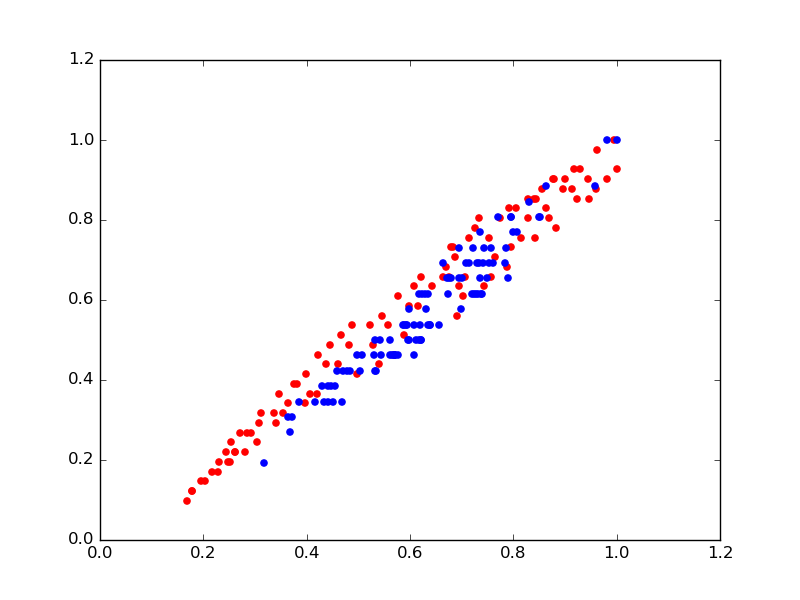
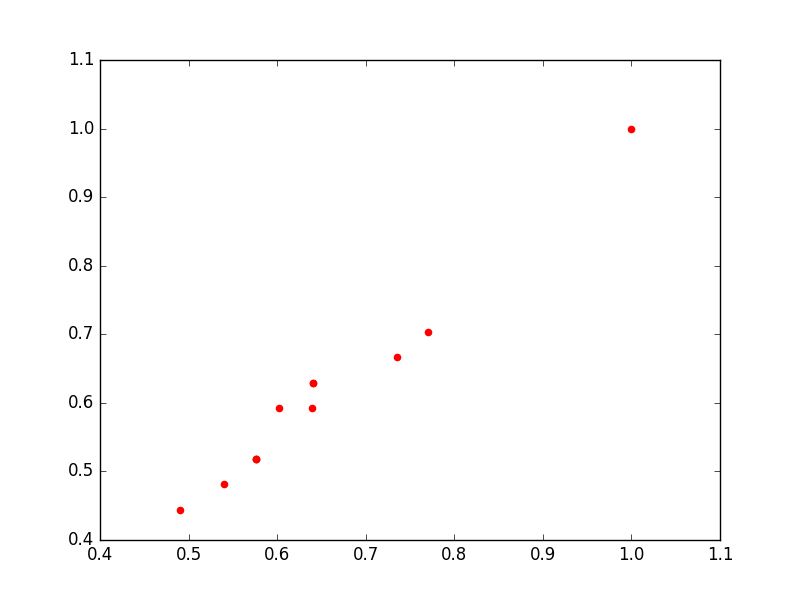
Fixing the normalization problme

diff --git a/deap/tools/emo_cdom.py b/deap/tools/emo_cdom.py
@@ -48,6 +48,7 @@ def selNSGA2Cdom(individuals, k, nd='standard'):
         
     return chosen
 
+
 def sortNondominated(individuals, k, first_front_only=False):
     """Sort the first *k* *individuals* into different nondomination levels 
     using the "Fast Nondominated Sorting Approach" proposed by Deb et al.,
@@ -78,16 +79,43 @@ def sortNondominated(individuals, k, first_front_only=False):
     next_front = []
     dominating_fits = defaultdict(int)
     dominated_fits = defaultdict(list)
-    
+    dominatedby_fits = defaultdict(list)
+
+    maxValues = []
+    for i, fit_i in enumerate(fits):
+        if i == 0:
+            maxValues = list(fit_i.values)
+        else:
+            for i in range(len(fit_i.values)):
+                if maxValues[i] < fit_i.values[i]:
+                    maxValues[i] = fit_i.values[i]
+
+    # print maxValues
+
+    for i, fit_i in enumerate(fits):
+        normalised_value = []
+        for j in range(len(fit_i.values)):
+            if maxValues[j] != 0:
+                normalised_value.append(fit_i.wvalues[j] / maxValues[j])
+            else:
+                normalised_value.append(fit_i.wvalues[j])
+        fit_i.normalisedValue = normalised_value
+        #print normalised_value
+
     # Rank first Pareto front
     for i, fit_i in enumerate(fits):
         for fit_j in fits[i+1:]:
+            # print str(i) + " : "+str(fits.index(fit_j))
+            # print "\t "+ str(fit_i) + " : "+ str(fit_j)
+            # print fit_j.normalisedValue
             if fit_i.dominatesCdom(fit_j):
                 dominating_fits[fit_j] += 1
                 dominated_fits[fit_i].append(fit_j)
+                dominatedby_fits[fit_j].append(fit_i)
             elif fit_j.dominatesCdom(fit_i):
                 dominating_fits[fit_i] += 1
                 dominated_fits[fit_j].append(fit_i)
+                dominatedby_fits[fit_i].append(fit_j)
         if dominating_fits[fit_i] == 0:
             current_front.append(fit_i)
     
@@ -96,6 +124,14 @@ def sortNondominated(individuals, k, first_front_only=False):
         fronts[-1].extend(map_fit_ind[fit])
     pareto_sorted = len(fronts[-1])
 
+    # for i, fit_i in enumerate(fits):
+    #     dominatedStr = ""
+    #     for fit_d in dominatedby_fits[fit_i]:
+    #         dominatedStr  = dominatedStr + " "+ str(fits.index(fit_d))
+    #     print str(i) + "("+str(dominating_fits[fit_i])+")(" + str(len(dominated_fits[fit_i])) + ") : " + dominatedStr
+
+    # print "Current Fronts Size: " + str(len(current_front)) + " pareto_shared : " + str(pareto_sorted)
+
     # Rank the next front until all individuals are sorted or 
     # the given number of individual are sorted.
     if not first_front_only:
@@ -103,8 +139,10 @@ def sortNondominated(individuals, k, first_front_only=False):
         while pareto_sorted < N:
             fronts.append([])
             for fit_p in current_front:
+                templist =  dominated_fits[fit_p]
                 for fit_d in dominated_fits[fit_p]:
                     dominating_fits[fit_d] -= 1
+                    temp = dominating_fits[fit_d]
                     if dominating_fits[fit_d] == 0:
                         next_front.append(fit_d)
                         pareto_sorted += len(map_fit_ind[fit_d])

diff --git a/Optimisers.py b/Optimisers.py
@@ -12,7 +12,7 @@ def nsga2(simulator, model):
     toolbox.register("splot_point", getIndividualPoint, simulator)
     toolbox.register("individual", tools.initIterate, creator.Individual, toolbox.splot_point)
     toolbox.register("evaluate", evaluateObjectives, model)
-    toolbox.register("select", tools.selNSGA2)
+    toolbox.register("select", tools.selNSGA2Cdom)
     toolbox.register("mate", matePoints, model)
     toolbox.register("mutate", mutatePoints, model)
     # ind1 = toolbox.individual()
@@ -31,7 +31,8 @@ def nsga2(simulator, model):
     for ind, fit in zip(invalid_ind, fitnesses):
         ind.fitness.values = fit
 
-    printPopulation(pop)
+    # printPopulation(pop)
+
     # print pop[0].fitness.valid
     # This is just to assign the crowding distance to the individuals
     # no actual selection is done
@@ -68,8 +69,8 @@ def nsga2(simulator, model):
 
     #print("Final population hypervolume is %f" % tools. hypervolume(pop, [11.0, 11.0]))
 
-    print "\n \n \nFinal Population: \n\n"
-    printPopulation(pop)
+    # print "\n \n \nFinal Population: \n\n"
+    # printPopulation(pop)
 
     return pop
 
@@ -92,7 +93,7 @@ def spea2(simulator, model):
     # ind1 = toolbox.individual()
     # print ind1
     # print ind1.fitness.valid
-    MU = 100
+    MU = 12
     toolbox.register("population", tools.initRepeat, list, toolbox.individual)
     # pop = toolbox.population(n=MU)
     # invalid_ind = [ind for ind in pop if not ind.fitness.valid]
@@ -165,8 +166,8 @@ def ga(simulator, model):
     # ind1 = toolbox.individual()
     # print ind1
     # print ind1.fitness.valid
-    MU = 100
-    CXPB, MUTPB, NGEN = 0.5, 0.2, 100
+    MU = 12
+    CXPB, MUTPB, NGEN = 0.5, 0.2, 1
     toolbox.register("population", tools.initRepeat, list, toolbox.individual)
     pop = toolbox.population(n=MU)
     invalid_ind = [ind for ind in pop if not ind.fitness.valid]
@@ -215,7 +216,7 @@ def ga(simulator, model):
         # Gather all the fitnesses in one list and print the stats
         fits = [ind.fitness.values[0] for ind in pop]
 
-    printPopulation(pop)
+    #printPopulation(pop)
     return pop
 
 

diff --git a/deap/base.py b/deap/base.py
@@ -178,6 +178,8 @@ class Fitness(object):
         if len(values) > 0:
             self.values = values
 
+        self.normalisedValue = []
+
     def getValues(self):
         return tuple(map(truediv, self.wvalues, self.weights))
 
@@ -227,7 +229,7 @@ class Fitness(object):
                   otherwise. Dominates = Continuous Dominates
         """
         def expLoss(x1, y1, n):
-           return -1*math.e**( (x1 - y1) / n )
+            return -1*math.e**( (x1 - y1) / n )
 
         def loss(x, y):
             losses = []
@@ -236,9 +238,9 @@ class Fitness(object):
                 losses += [expLoss( self_wvalue, other_wvalue, n)]
             return sum(losses) / n
 
-        l1 = loss(self.wvalues[obj], other.wvalues[obj])
-        l2 = loss(other.wvalues[obj], self.wvalues[obj])
-        
+        l1 = loss(self.normalisedValue[obj], other.normalisedValue[obj])
+        l2 = loss(other.normalisedValue[obj], self.normalisedValue[obj])
+        # print "\t" + str(l1) +" : " + str(l2)
         return l1 < l2
 
     @property

diff --git a/deap/tools/emo.py b/deap/tools/emo.py
@@ -90,11 +90,14 @@ def sortNondominated(individuals, k, first_front_only=False):
                 dominated_fits[fit_j].append(fit_i)
         if dominating_fits[fit_i] == 0:
             current_front.append(fit_i)
-    
+
+
     fronts = [[]]
     for fit in current_front:
         fronts[-1].extend(map_fit_ind[fit])
     pareto_sorted = len(fronts[-1])
+
+    print "Current Fronts Size: " + str(len(current_front)) + " pareto_shared : " + str(pareto_sorted)
 
     # Rank the next front until all individuals are sorted or 
     # the given number of individual are sorted.

diff --git a/GAMethods.py b/GAMethods.py
@@ -22,7 +22,7 @@ def evaluateObjectives(model, ind1):
     constraintsFailed = evaluateConstraintsFailed(ind1, model)
     defects = evaluateDefects(ind1, model)
     benefits = evaluateBenefits(ind1, model)
-    return (cost, constraintsFailed,featureRichness, defects, benefits)
+    return (cost, constraintsFailed, featureRichness, defects, benefits)
 
 
 def evaluateCost(ind1, model):

diff --git a/testOptimizers.py b/testOptimizers.py
@@ -47,7 +47,7 @@ def main():
     model = SPLOTParser().parse(modelFile)
     model.generateTreeStructureConstraints(model.root)
 
-    algos = [nsga2, ga]
+    algos = [nsga2]#, ga]
     simulator = Simulator(model)
     n = 1000
     cost = []
